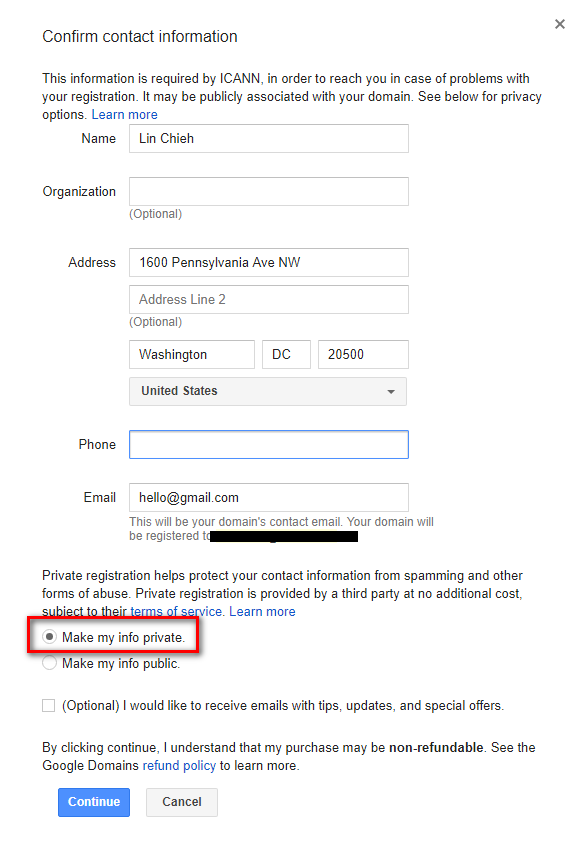
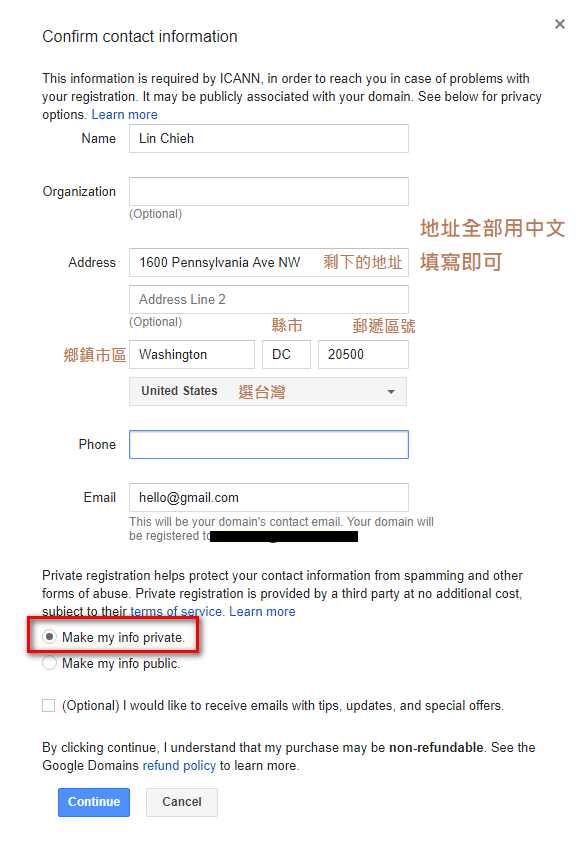
Update Google Domains post

diff --git a/_posts/2018/01/2018-01-17-google-domain.md b/_posts/2018/01/2018-01-17-google-domain.md
@@ -13,7 +13,7 @@ image:
 
 　　在架設這個部落格之前，我曾經做了幾個考量，像是「我是否應該使用部落格平台」？還有「我是否應該要申請域名」？
 
-　　會有第二個考量主要來自於我打算搬遷之前的部落格，而搬遷部落格最大的問題，就是會損失好不容易建立的搜尋引擎排行。之前「大腦的外接記憶體」有不少文章用特定關鍵字去搜尋，其結果會出現在第一頁，算是小有成就感，不過網址改變以後當然就只能重來。如果有心要長期經營的話，「私人域名」就顯得特別重要，有了私人域名，就算整個大改版甚至是搬移到別的平台，只要文章的網址沒有改變，其他人還是可以找得到你。
+　　會有第二個考量主要來自於我打算搬遷之前的部落格，而搬遷部落格最大的問題，就是會損失好不容易建立的搜尋引擎排行。之前「大腦的外接記憶體」有不少文章用特定關鍵字去搜尋，結果會出現在第一頁，算是小有成就感，不過網址改變以後當然就只能重來。如果有心要長期經營的話，「私人域名」就顯得特別重要，有了私人域名，就算整個大改版甚至是搬移到別的平台，只要文章的網址沒有改變，其他人還是可以找得到你。
 
 ### 申請域名大概要多少錢？
 　　我想這個應該會是很多人第一個會在意的問題，而這個答案是：相當便宜。
@@ -43,9 +43,9 @@ image:
 
 　　
 
-　　點選 Proceed to checkout 以後，會進入到填寫個人資料，這也是目前有問題的部分，我試過填寫我家地址，如果國家選擇 Taiwan 的話，填完的結果是可能會出現 Invalid State 或 Invalid City 而無法通過，但國家選擇 China ，State 選台灣看起來就可以 ... 嗯，這個就有一點政治了。
+　　點選 Proceed to checkout 以後，會進入到填寫個人資料，這有一個小小陷阱，我試過**用英文**填寫我家地址，如果國家選擇 Taiwan 的話，填完的結果是可能會出現 Invalid State 或 Invalid City 而無法通過。實際上直接使用**中文**填寫就可以了，State 部分填寫縣市、City 填寫鄉鎮市區。
 
-　　這個聯絡資訊主要是網域有爭議的時候使用，假資料的話可能會出問題或吃虧，但資料之後也是可以更改的，如果真的搞不定的話可以先填個美國白宮， Google 會通過。另外記得勾選 Make my info private，保護你的個人資料。
+　　這個聯絡資訊主要是網域有爭議的時候使用，假資料的話可能會出問題或吃虧，但資料之後也是可以更改。另外記得勾選 Make my info private，保護你的個人資料。
 <figure class="large　center"><img src="/images/2018/01/gdomain-contact.png" alt=""></figure>
 
 　　
